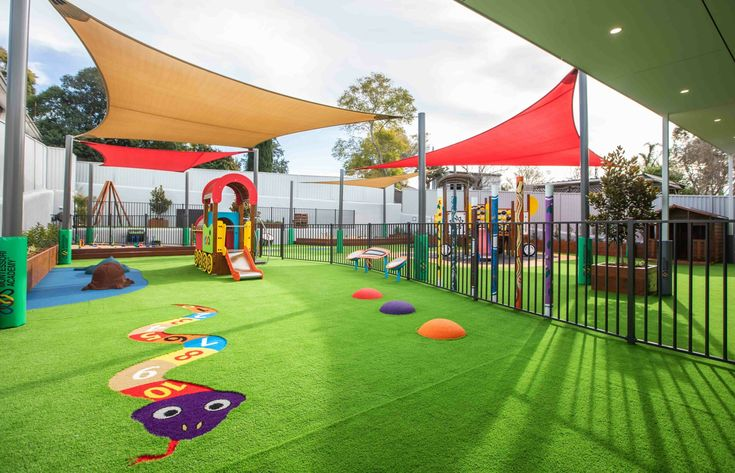
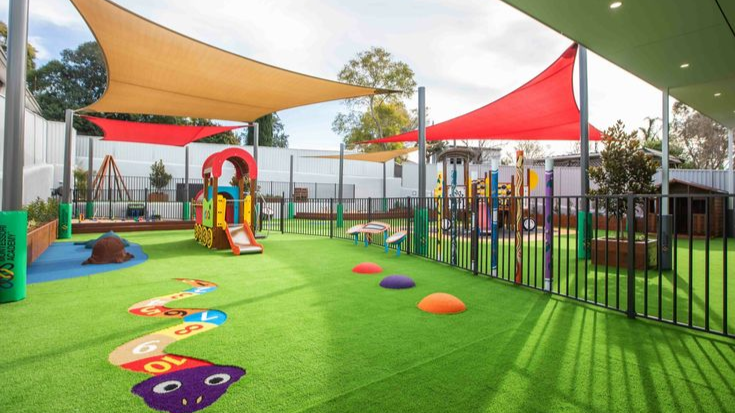
Mejora de relacion de aspecto en imagenes del carrosuel, en detalles de salon. Se agrego boton en admin para volver a inicio

diff --git a/admin.html b/admin.html
@@ -8,7 +8,7 @@
 <body>
   <div class="container py-4">
     <h1>Administrar Salones</h1>
-
+    <a href="index.html" class="btn btn-info mb-3">Inicio</a>
     <form id="formSalon" class="mb-4">
       <input type="hidden" id="salonId" />
       <div class="mb-3">

diff --git a/css/styles.css b/css/styles.css
@@ -139,7 +139,7 @@ footer {
 }
 
 .carousel-item img {
-  height: 500px;
+  height: 600px;
   object-fit: cover;
 }
 
